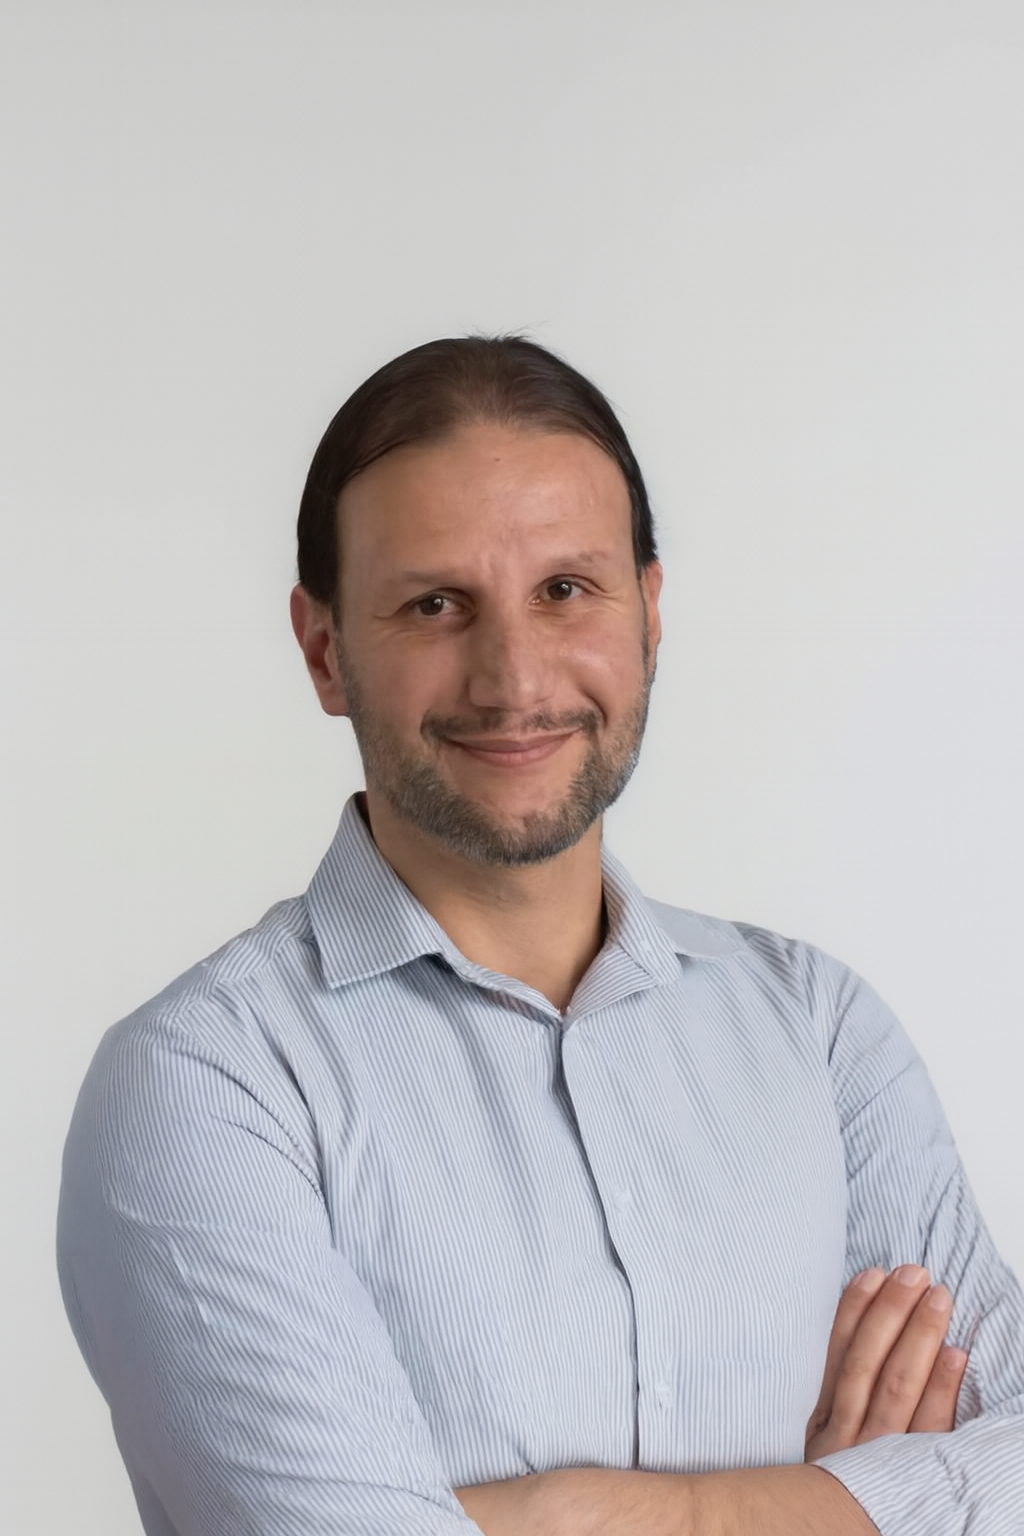
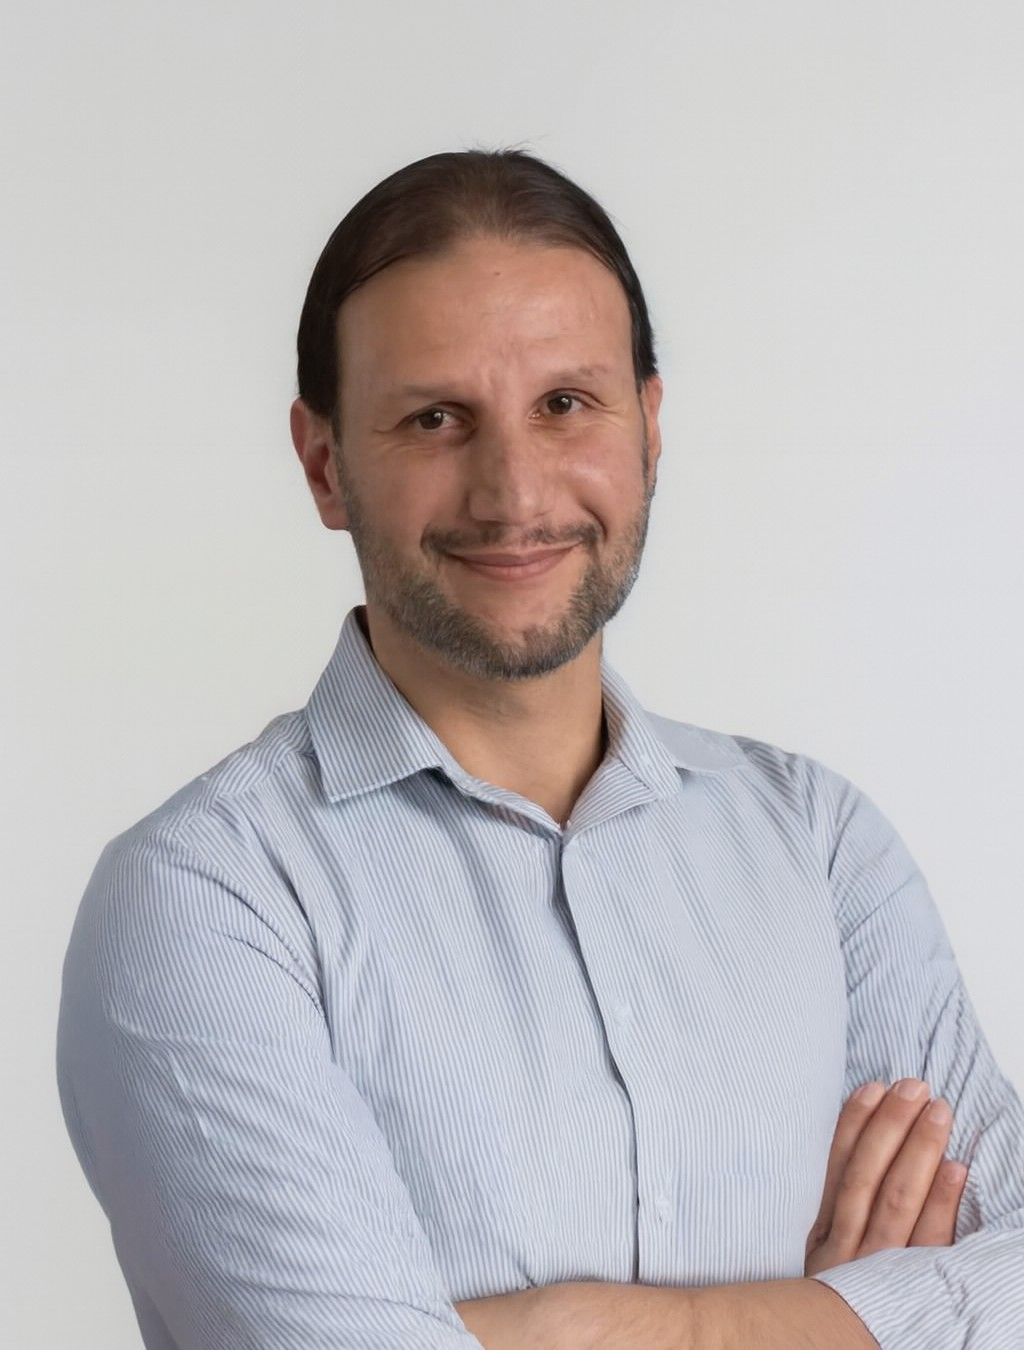
modified:   components/Guests.tsx 	modified:   public/keynote-speakers/yannis.jpg

diff --git a/components/Guests.tsx b/components/Guests.tsx
@@ -11,7 +11,7 @@ import {
   CarouselNext,
   CarouselPrevious,
 } from "@/components/ui/carousel";
-import { Linkedin, Twitter, MapPin } from "lucide-react";
+import { MapPin } from "lucide-react";
 
 // --- 1. Data Object ---
 const speakers = [
@@ -25,6 +25,7 @@ const speakers = [
     role: "Chief Guest",
     description:
       "Champions statewide youth, sports, and civic engagement programs while steering flagship entrepreneurship and safety initiatives across Gujarat.",
+    portfolio: "https://x.com/sanghaviharsh",
   },
   {
     id: 6,
@@ -35,6 +36,7 @@ const speakers = [
     role: "Guest of Honour",
     description:
       "Seasoned chemical engineer driving national capacity for advanced polymer, materials, and skill development ecosystems across CIPET centres.",
+    portfolio: "https://www.cipet.gov.in/our-team/our-team-dg-profile.php"
   },
   {
     id: 7,
@@ -46,6 +48,51 @@ const speakers = [
     role: "Guest of Honour",
     description:
       "Globally recognized for pioneering microbial fuel cells that turn waste streams into clean electricity and circular sanitation solutions.",
+    portfolio: "https://www.southampton.ac.uk/people/5z9k7x/professor-yannis-ieropoulos",
+  },
+  {
+    id: 8,
+    name: "Dr. S. Venkata Mohan",
+    position: "Director, CSIR NEERI, Nagpur",
+    college: "CSIR-NEERI, Nagpur",
+    image: "/keynote-speakers/venkatamohan.jpg",
+    role: "Keynote Speaker",
+    description:
+      "Environmental biotechnologist and Shanti Swarup Bhatnagar laureate advancing circular bioeconomy pathways that turn waste carbon into low-carbon fuels and materials.",
+    portfolio: "https://www.neeri.res.in/file_divisions/62722439_Dr.%20S.%20Venkata%20Mohan%20CV.pdf",
+  },
+  {
+    id: 9,
+    name: "Dr. K. K. Pant",
+    position: "Director, IIT Roorkee",
+    college: "Indian Institute of Technology Roorkee",
+    image: "/keynote-speakers/kkpant.jpg",
+    role: "Keynote Speaker",
+    description:
+      "Leads IIT Roorkee while pioneering heterogeneous catalysis, CO₂ conversion, and sustainable fuels research that link labs to large-scale impact.",
+    portfolio: "https://iitr.ac.in/Departments/Chemical%20Engineering%20Department/People/Faculty/101000.html"
+  },
+  {
+    id: 10,
+    name: "Dr. Makarand Ghangrekar",
+    position: "Director, NIT Puducherry",
+    college: "National Institute of Technology Puducherry",
+    image: "/keynote-speakers/ghangrekar.jpg",
+    role: "Keynote Speaker",
+    description:
+      "Wastewater innovation leader translating microbial fuel cells and anaerobic treatment know-how into resilient sanitation infrastructure.",
+    portfolio: "https://ghangrekar.com/"
+  },
+  {
+    id: 11,
+    name: "Prof. Aniruddha B. Pandit",
+    position: "Vice-Chancellor, ICT Mumbai",
+    college: "Institute of Chemical Technology, Mumbai",
+    image: "/keynote-speakers/pandit.jpg",
+    role: "Keynote Speaker",
+    description:
+      "Cavitation and sonochemistry pioneer whose hydrodynamic reactor designs enable cleaner manufacturing and scale-up across chemical industries.",
+    portfolio: "https://abpandit.weebly.com/"
   },
 ];
 
@@ -63,39 +110,56 @@ const SpeakerCard = ({ item }: { item: typeof speakers[0] }) => {
             {/* Image Container */}
             <div className="relative w-full sm:w-1/2 h-80 sm:h-auto sm:min-h-[360px] overflow-hidden">
               {/* Gradient Overlay (visible on hover) */}
-              <div className="absolute inset-0 bg-black/40 opacity-0 group-hover:opacity-100 transition-opacity duration-300 z-10 flex items-center justify-center gap-4">
-                  <motion.button 
-                      initial={{ scale: 0 }} 
-                      whileHover={{ scale: 1.1 }} 
-                      className="bg-white p-2 rounded-full text-blue-600 hover:bg-blue-50 transition-colors"
+                <div className="absolute inset-0 bg-gradient-to-b from-black/10 via-black/40 to-black/80 opacity-0 group-hover:opacity-100 transition-opacity duration-300 z-10 flex items-center justify-center px-4">
+                  <motion.div
+                    initial={{ opacity: 0, y: 20 }}
+                    animate={{ opacity: 1, y: 0 }}
+                    className="w-full max-w-xs rounded-2xl border border-white/40 bg-white/90 p-4 text-center shadow-2xl backdrop-blur"
                   >
-                      <Linkedin size={20} />
-                  </motion.button>
-                  <motion.button 
-                      initial={{ scale: 0 }} 
-                      whileHover={{ scale: 1.1 }} 
-                      className="bg-white p-2 rounded-full text-sky-500 hover:bg-sky-50 transition-colors"
-                  >
-                      <Twitter size={20} />
-                  </motion.button>
+                    <p className="text-xs font-semibold uppercase tracking-[0.3em] text-primary">Profile</p>
+                    <p className="mt-2 text-base font-semibold text-zinc-900 line-clamp-2">
+                      {item.name}
+                    </p>
+                    <p className="mt-1 text-xs text-zinc-600 line-clamp-2">
+                      {item.position}
+                    </p>
+                    {item.portfolio ? (
+                      <motion.a
+                        href={item.portfolio}
+                        target="_blank"
+                        rel="noopener noreferrer"
+                        whileHover={{ scale: 1.03 }}
+                        whileTap={{ scale: 0.97 }}
+                        className="mt-4 inline-flex items-center justify-center gap-1 rounded-full bg-primary px-5 py-2 text-sm font-semibold text-white shadow-lg"
+                      >
+                        <span>Know more</span>
+                        <span aria-hidden="true">→</span>
+                      </motion.a>
+                    ) : (
+                      <span className="mt-4 inline-flex items-center justify-center rounded-full bg-zinc-200 px-5 py-2 text-xs font-semibold text-zinc-600">
+                        Portfolio coming soon
+                      </span>
+                    )}
+                  </motion.div>
               </div>
 
               <Image
                 src={item.image} // Ensure you have a placeholder if image fails
                 alt={item.name}
                 fill
+                sizes="(min-width: 1024px) 25vw, (min-width: 640px) 40vw, 80vw"
                 className="object-cover transition-transform duration-500 group-hover:scale-105"
               />
             </div>
 
             {/* Text Content */}
-            <div className="flex w-full sm:w-1/2 flex-col justify-center gap-5 p-6 sm:p-8 text-center sm:text-left sm:min-h-[360px]">
+            <div className="flex w-full sm:w-1/2 flex-col  gap-5 p-6 sm:p-8 text-center sm:text-left sm:min-h-[360px]">
               {item.role && (
                 <div className="flex flex-col gap-1 text-center sm:text-left">
                   <span className="mx-auto sm:mx-0 inline-flex items-center justify-center rounded-full bg-primary/10 px-4 py-1 text-xs font-semibold uppercase tracking-[0.3em] text-primary">
                     {item.role}
                   </span>
-                  
+
                 </div>
               )}
               <h3 className="text-2xl font-semibold tracking-tight text-zinc-900 dark:text-zinc-100">
@@ -126,52 +190,52 @@ const GuestSpeakers = () => {
   return (
     <section className="py-8 lg:py-12 w-full bg-zinc-50 dark:bg-black">
       <div className="mx-auto w-full max-w-4xl px-4 sm:px-6">
-        
+
         {/* Header */}
         <div className="mb-8 text-center max-w-2xl mx-auto space-y-4">
-            <motion.h2 
-                initial={{ opacity: 0, y: 20 }}
-                whileInView={{ opacity: 1, y: 0 }}
-                viewport={{ once: true }}
-                className="text-3xl md:text-5xl font-extrabold tracking-tight text-zinc-900 dark:text-white"
-            >
-                Meet Our <span className="text-primary">Visionaries</span>
-            </motion.h2>
-            <motion.p 
-                initial={{ opacity: 0 }}
-                whileInView={{ opacity: 1 }}
-                transition={{ delay: 0.2 }}
-                viewport={{ once: true }}
-                className="text-muted-foreground text-lg"
-            >
-                Distinguished experts and industry leaders joining us at Asreem.
-            </motion.p>
+          <motion.h2
+            initial={{ opacity: 0, y: 20 }}
+            whileInView={{ opacity: 1, y: 0 }}
+            viewport={{ once: true }}
+            className="text-3xl md:text-5xl font-extrabold tracking-tight text-zinc-900 dark:text-white"
+          >
+            Meet Our <span className="text-primary">Visionaries</span>
+          </motion.h2>
+          <motion.p
+            initial={{ opacity: 0 }}
+            whileInView={{ opacity: 1 }}
+            transition={{ delay: 0.2 }}
+            viewport={{ once: true }}
+            className="text-muted-foreground text-lg"
+          >
+            Distinguished experts and industry leaders joining us at Asreem.
+          </motion.p>
         </div>
 
         {/* Carousel */}
         <div className="relative px-2 sm:px-6">
-            <Carousel
+          <Carousel
             opts={{
-                align: "start",
-                loop: true,
+              align: "start",
+              loop: true,
             }}
-          className="w-full max-w-lg sm:max-w-2xl mx-auto"
-            >
+            className="w-full max-w-lg sm:max-w-2xl mx-auto"
+          >
             <CarouselContent className="-ml-2 md:-ml-4">
-                {speakers.map((speaker) => (
+              {speakers.map((speaker) => (
                 <CarouselItem
-                    key={speaker.id}
-              className="pl-2 md:pl-4 basis-full"
+                  key={speaker.id}
+                  className="pl-2 md:pl-4 basis-full"
                 >
-                    <SpeakerCard item={speaker} />
+                  <SpeakerCard item={speaker} />
                 </CarouselItem>
-                ))}
+              ))}
             </CarouselContent>
-            
+
             {/* Custom styled navigation buttons */}
             <CarouselPrevious className="hidden md:flex -left-12 h-12 w-12 border-2 border-zinc-200 hover:border-primary hover:text-primary transition-all" />
             <CarouselNext className="hidden md:flex -right-12 h-12 w-12 border-2 border-zinc-200 hover:border-primary hover:text-primary transition-all" />
-            </Carousel>
+          </Carousel>
         </div>
 
       </div>
